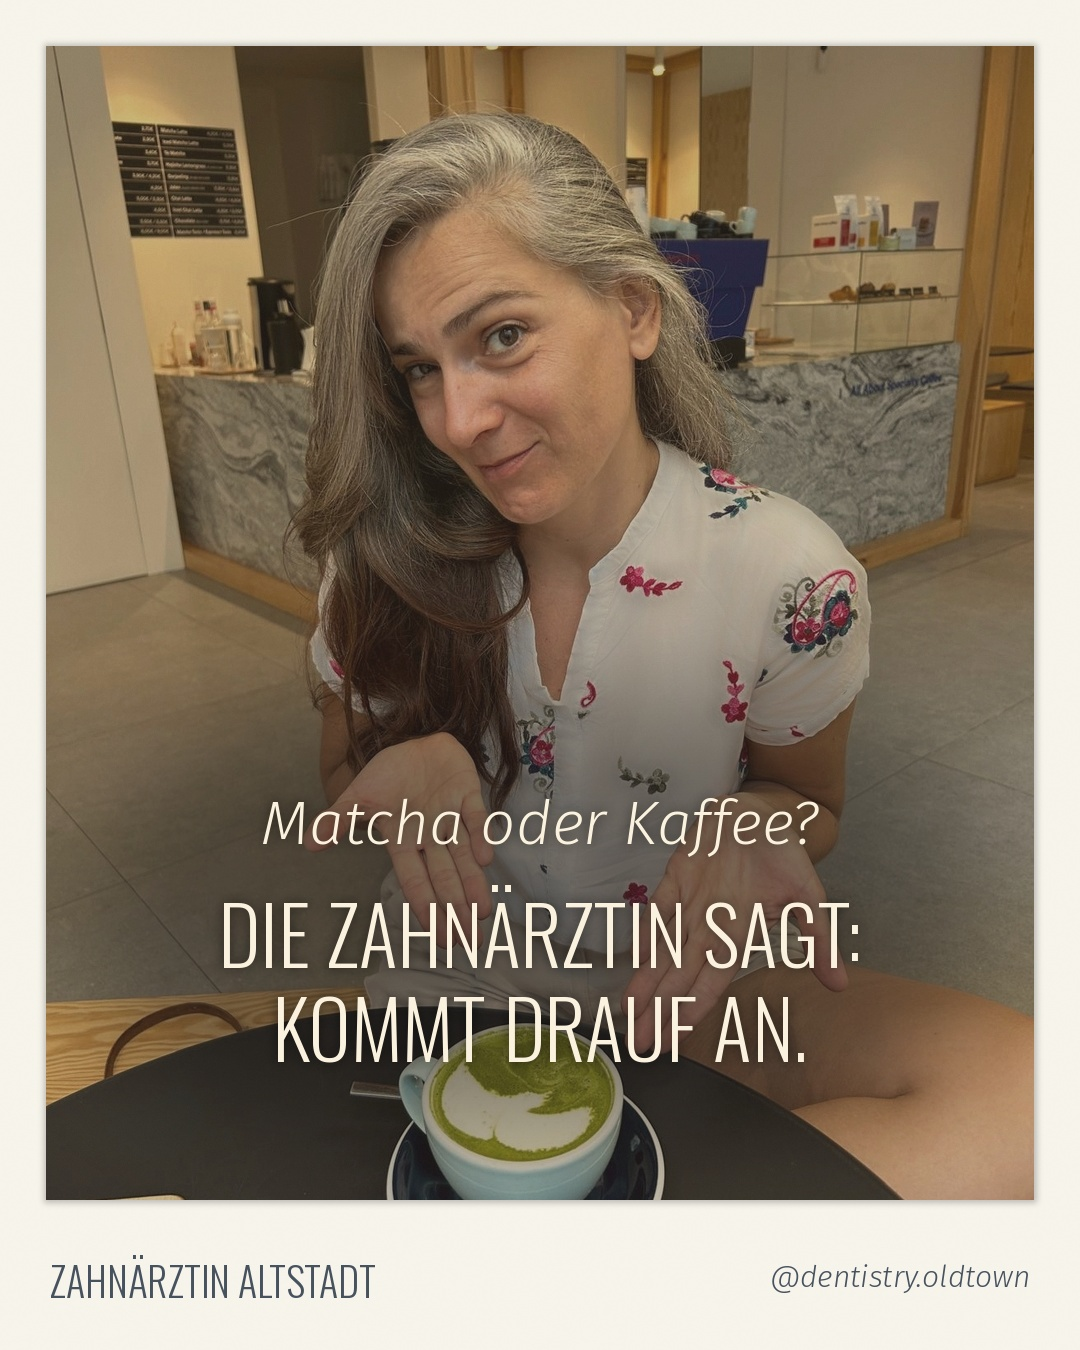
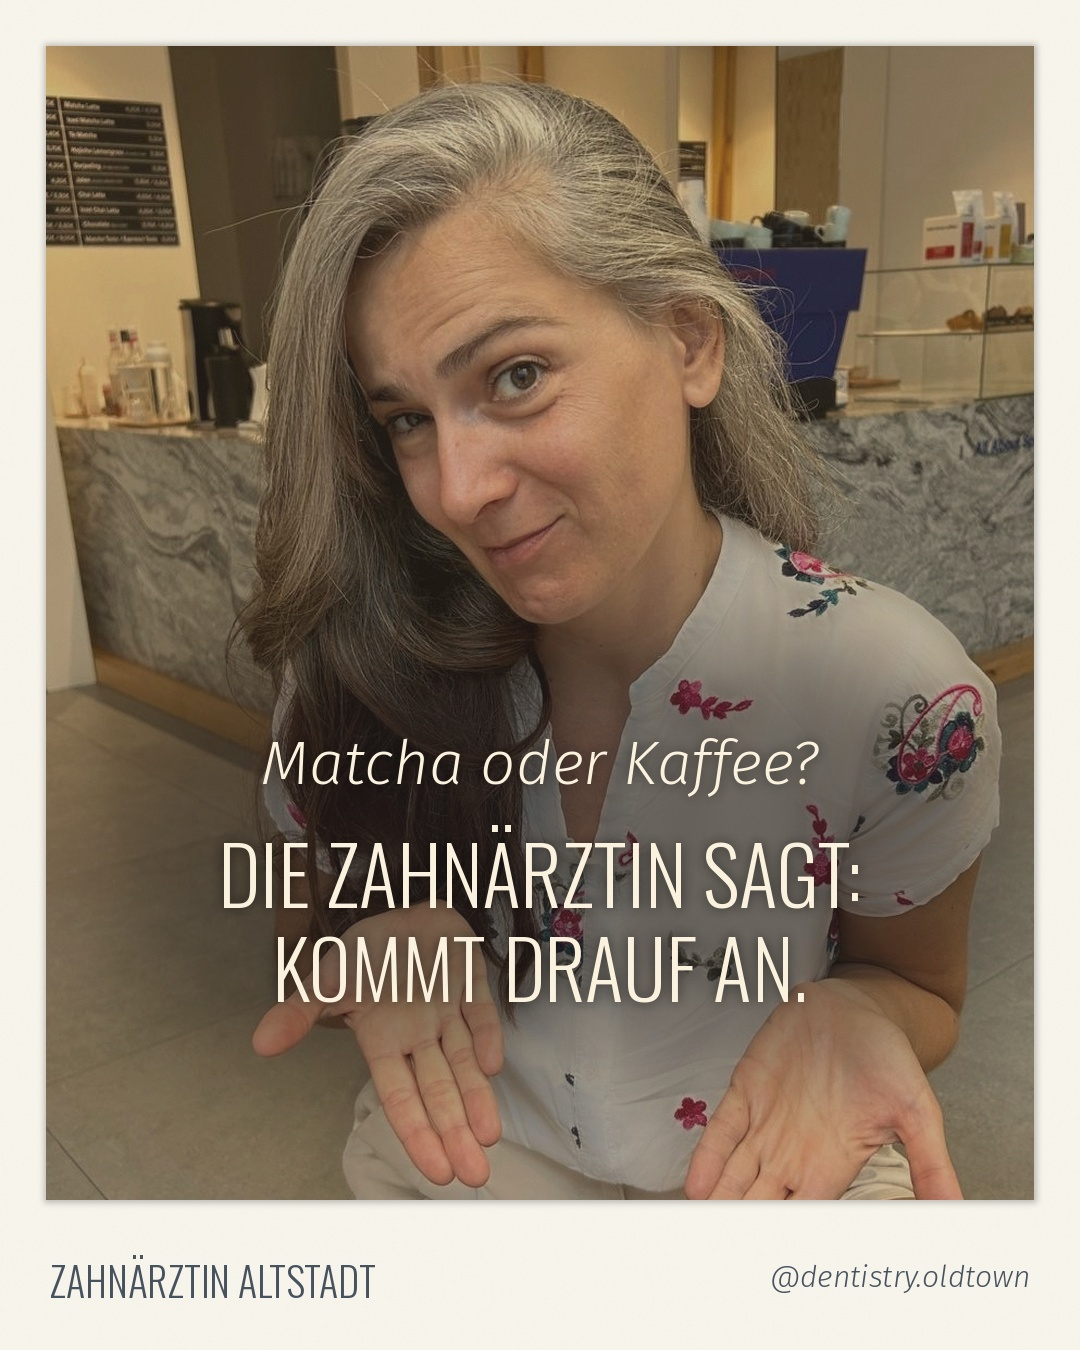
Matcha/Kaffee Folie 1: enger zugeschnitten (Bein nicht im Bild)
Claude-Session: https://claude.ai/code/session_012SPZoo3349FxBHtRPxeMWn

diff --git a/template/make_media.py b/template/make_media.py
@@ -285,7 +285,7 @@ class Builder:
         im = s._ph[key]
         bx, bt, bb = 46, 46, 150
         pw, ph = W - 2 * bx, H - bt - bb
-        iw, ih = im.size; k = max(pw / iw, ph / ih)
+        iw, ih = im.size; k = max(pw / iw, ph / ih) * sc.get("zoom", 1.0)
         im2 = im.resize((int(iw * k) + 1, int(ih * k) + 1), Image.LANCZOS)
         fx, fy = sc.get("focus", [0.5, 0.5]); x0 = int((im2.width - pw) * fx); y0 = int((im2.height - ph) * fy)
         p_ = im2.crop((x0, y0, x0 + pw, y0 + ph))
